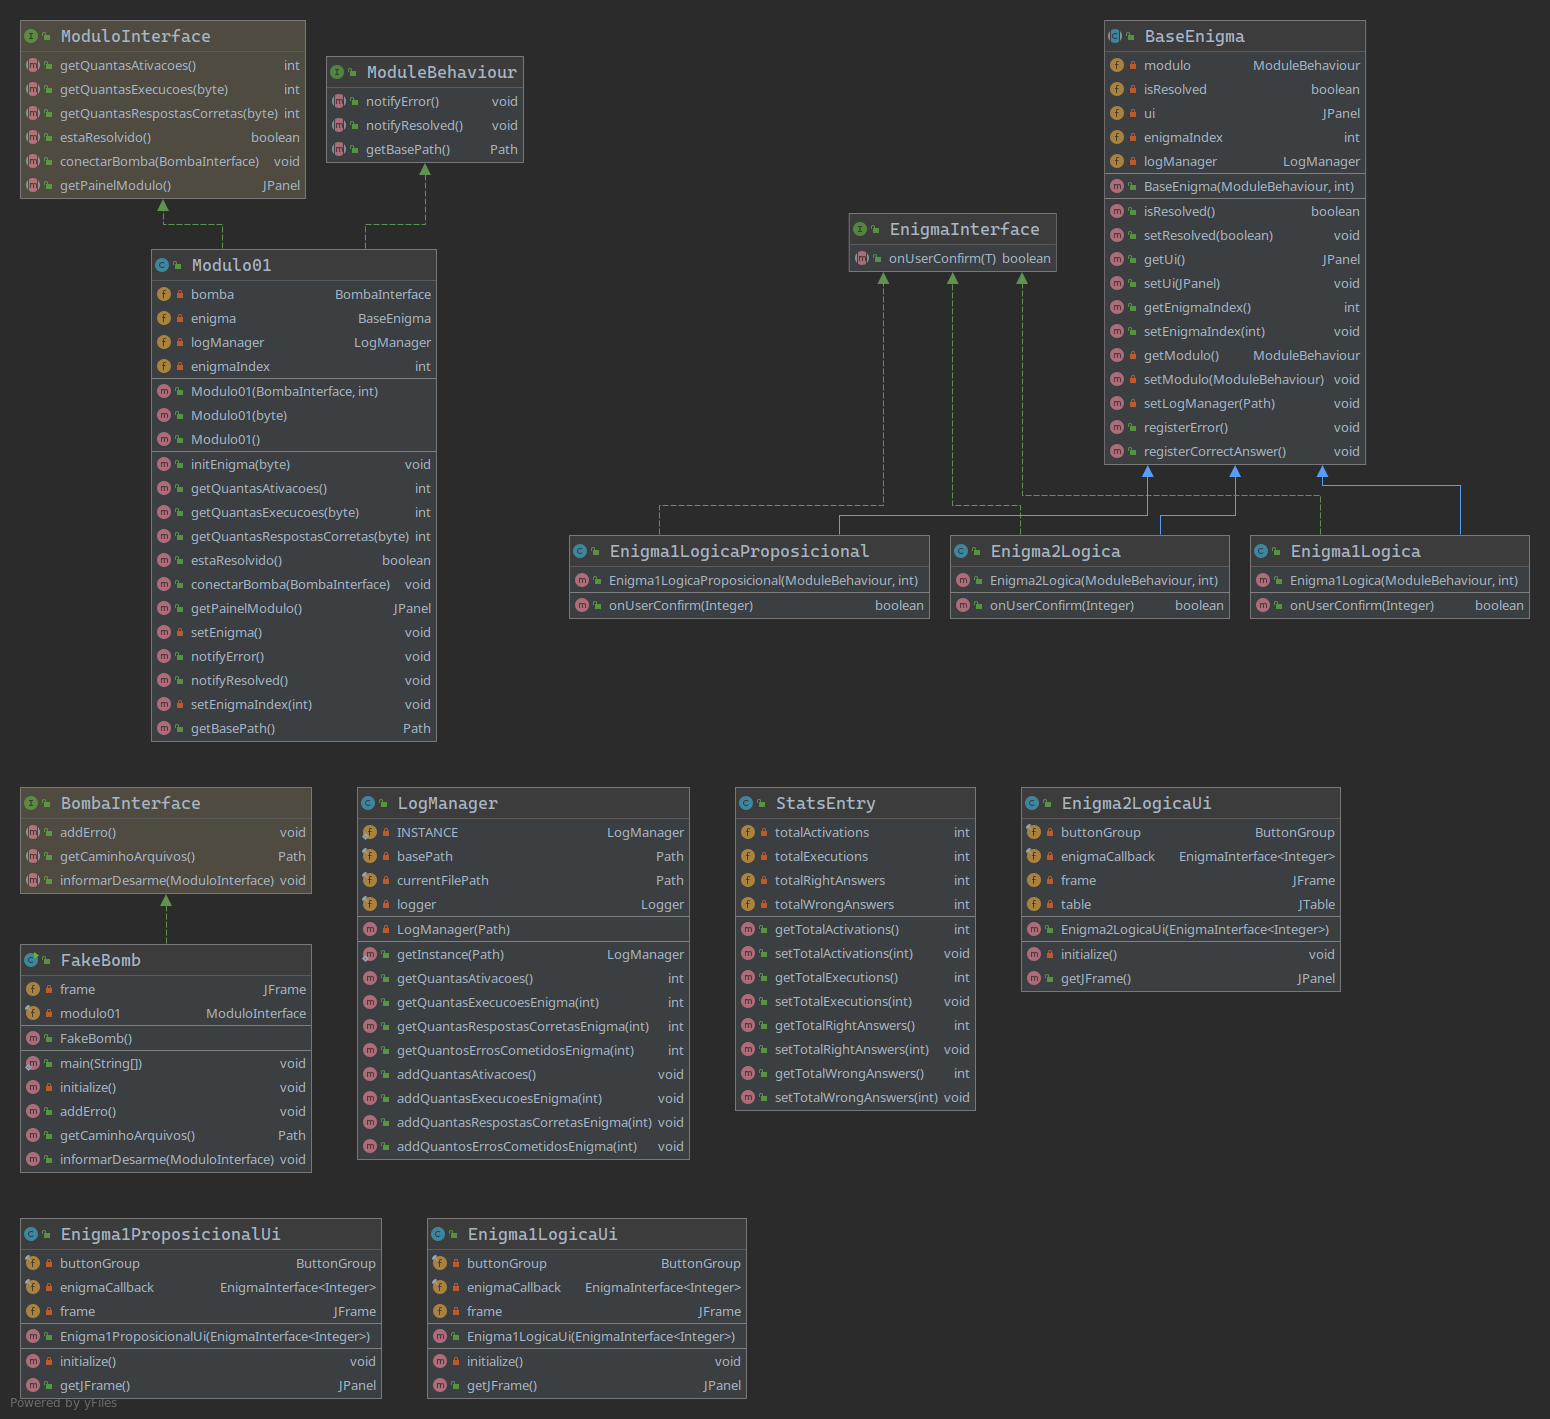
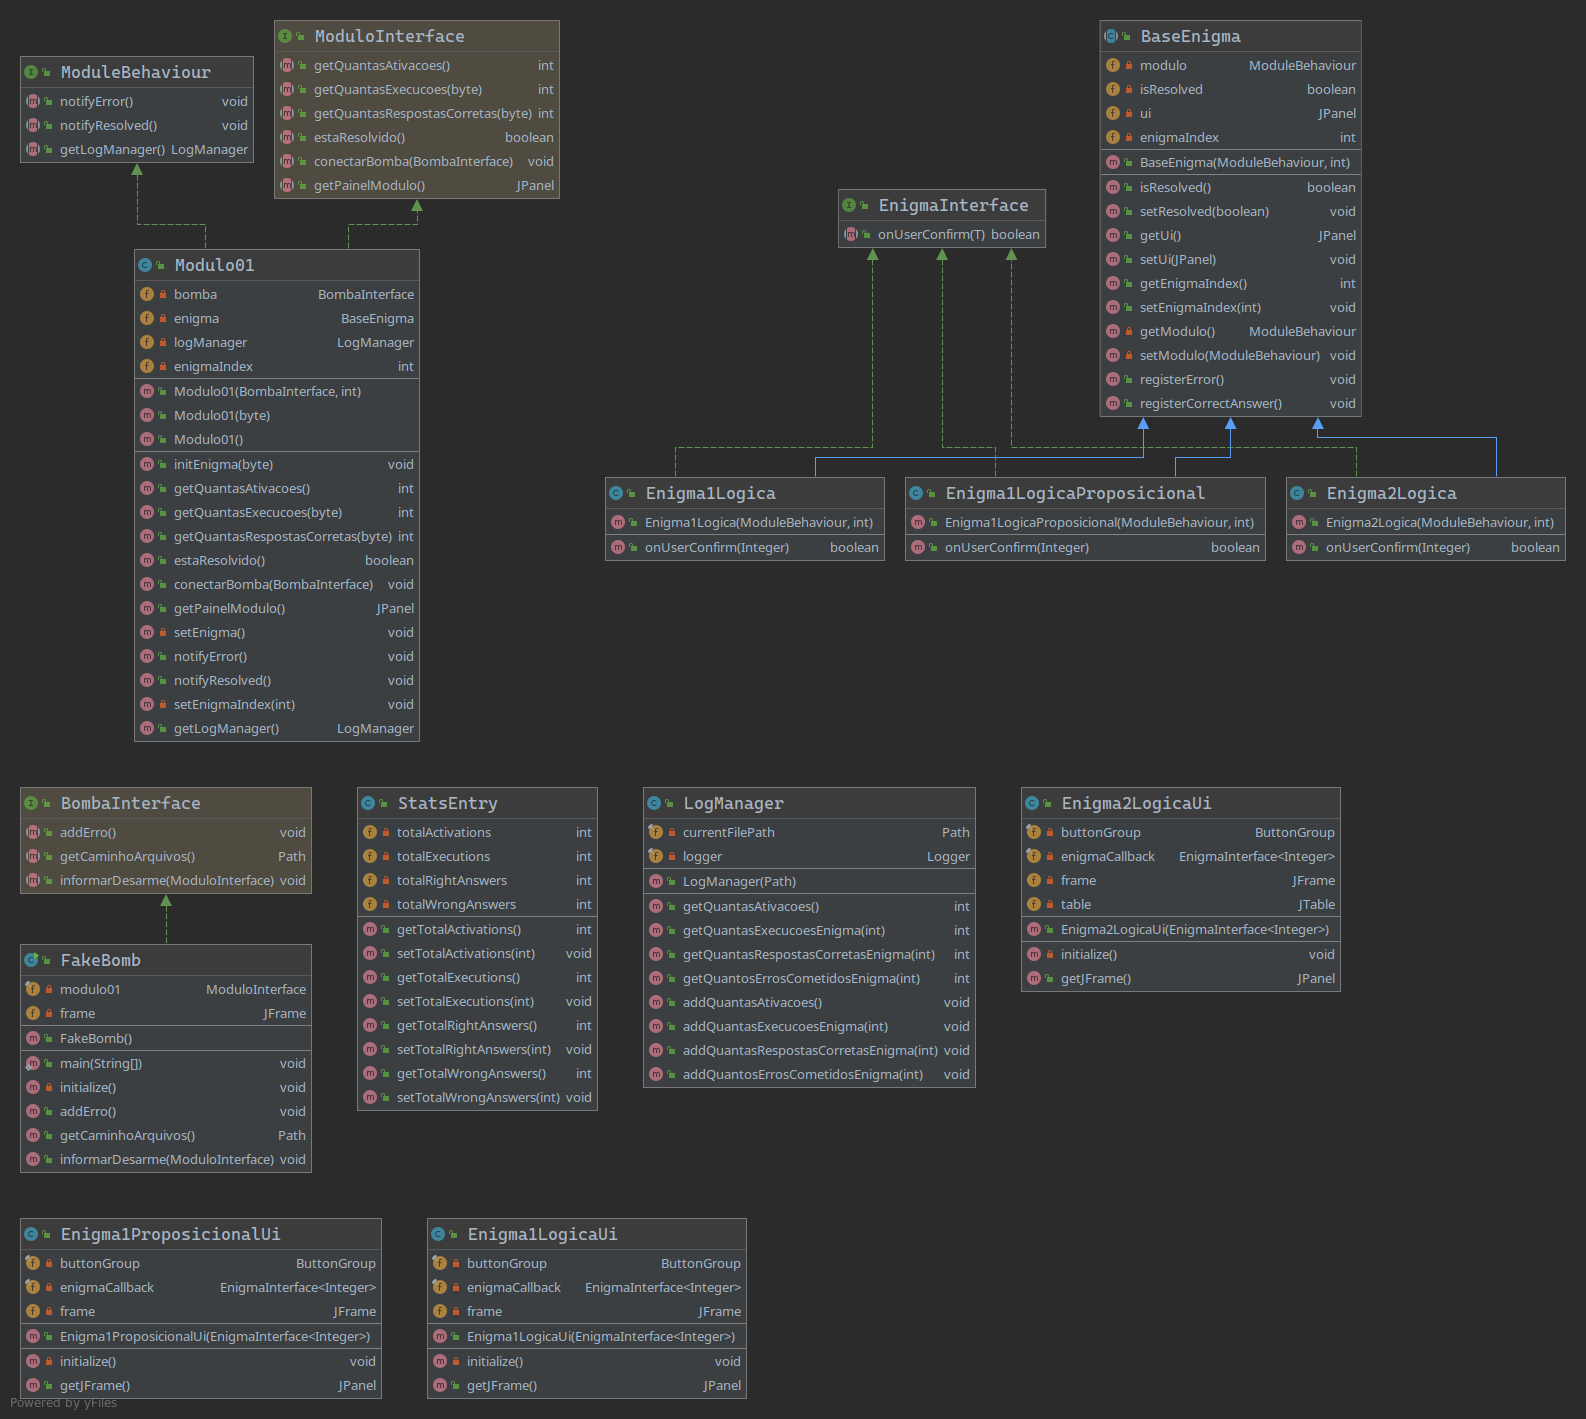
Ajustes no LogManager.java Ajustes no diagrama

diff --git a/src/data/LogManager.java b/src/data/LogManager.java
@@ -13,17 +13,13 @@ import java.util.logging.SimpleFormatter;
 //TODO
 public class LogManager {
 
-    private static volatile LogManager INSTANCE;
-    private final Path basePath;
     private final Path currentFilePath;
     private final Logger logger = Logger.getLogger("Modulo01");
 
-    private LogManager(Path basePath) {
+    public LogManager(Path basePath) {
         //Define o formato padrão dos logs
         System.setProperty("java.util.logging.SimpleFormatter.format",
                 "%1$tF %1$tT %4$s %2$s %5$s%6$s%n");
-
-        this.basePath = basePath;
 
         LocalDateTime now = LocalDateTime.now();
         DateTimeFormatter nameDtf = DateTimeFormatter.ofPattern("yyyy-MM-dd_HH-mm-ss-SSS");
@@ -46,27 +42,6 @@ public class LogManager {
             }
         } catch (IOException e) {
             e.printStackTrace();
-        }
-    }
-
-    /**
-     * Gets a single instance, double-checking in case getInstance
-     * is called from multiple threads, so it can be safe to assume
-     * only one instance will ever be created and no race conditions
-     * will ever occur between the multiple threads.
-     *
-     * @return the actual instance
-     */
-    public static LogManager getInstance(Path basePath) {
-        LogManager result = INSTANCE;
-        if (result != null) {
-            return result;
-        }
-        synchronized (LogManager.class) {
-            if (INSTANCE == null) {
-                INSTANCE = new LogManager(basePath);
-            }
-            return INSTANCE;
         }
     }
 

diff --git a/src/enigma/BaseEnigma.java b/src/enigma/BaseEnigma.java
@@ -1,10 +1,8 @@
 package enigma;
 
 import callback.ModuleBehaviour;
-import data.LogManager;
 
 import javax.swing.*;
-import java.nio.file.Path;
 
 public abstract class BaseEnigma {
 
@@ -12,12 +10,10 @@ public abstract class BaseEnigma {
     private boolean isResolved = false;
     private JPanel ui;
     private int enigmaIndex;
-    private LogManager logManager;
 
     public BaseEnigma(ModuleBehaviour modulo, int enigmaIndex) {
         this.setModulo(modulo);
         this.setEnigmaIndex(enigmaIndex);
-        this.setLogManager(modulo.getBasePath());
     }
 
     public boolean isResolved() {
@@ -52,18 +48,14 @@ public abstract class BaseEnigma {
         this.modulo = modulo;
     }
 
-    private void setLogManager(Path basePath) {
-        this.logManager = LogManager.getInstance(basePath);
-    }
-
     public void registerError() {
-        this.logManager.addQuantosErrosCometidosEnigma(getEnigmaIndex());
+        this.getModulo().getLogManager().addQuantosErrosCometidosEnigma(getEnigmaIndex());
         this.setResolved(false);
         this.getModulo().notifyError();
     }
 
     public void registerCorrectAnswer() {
-        this.logManager.addQuantasRespostasCorretasEnigma(getEnigmaIndex());
+        this.getModulo().getLogManager().addQuantasRespostasCorretasEnigma(getEnigmaIndex());
         this.setResolved(true);
         this.getModulo().notifyResolved();
     }

diff --git a/src/Modulo01.java b/src/Modulo01.java
@@ -6,7 +6,6 @@ import enigma.Enigma1LogicaProposicional;
 import enigma.Enigma2Logica;
 
 import javax.swing.*;
-import java.nio.file.Path;
 
 public class Modulo01 implements ModuloInterface, ModuleBehaviour {
 
@@ -18,7 +17,7 @@ public class Modulo01 implements ModuloInterface, ModuleBehaviour {
     public Modulo01(BombaInterface bomba, int enigmaIndex) {
         this.setEnigmaIndex(enigmaIndex);
         this.bomba = bomba;
-        this.logManager = LogManager.getInstance(bomba.getCaminhoArquivos());
+        this.logManager = new LogManager(bomba.getCaminhoArquivos());
         this.setEnigma();
     }
 
@@ -101,7 +100,7 @@ public class Modulo01 implements ModuloInterface, ModuleBehaviour {
     }
 
     @Override
-    public Path getBasePath() {
-        return bomba.getCaminhoArquivos();
+    public LogManager getLogManager() {
+        return logManager;
     }
 }

diff --git a/src/callback/ModuleBehaviour.java b/src/callback/ModuleBehaviour.java
@@ -1,6 +1,6 @@
 package callback;
 
-import java.nio.file.Path;
+import data.LogManager;
 
 public interface ModuleBehaviour {
 
@@ -8,5 +8,5 @@ public interface ModuleBehaviour {
 
     void notifyResolved();
 
-    Path getBasePath();
+    LogManager getLogManager();
 }

diff --git a/src/FakeBomb.java b/src/FakeBomb.java
@@ -5,8 +5,8 @@ import java.nio.file.Paths;
 
 public class FakeBomb implements BombaInterface {
 
-    private JFrame frame;
     private final ModuloInterface modulo01;
+    private JFrame frame;
 
     /**
      * Create the application.
